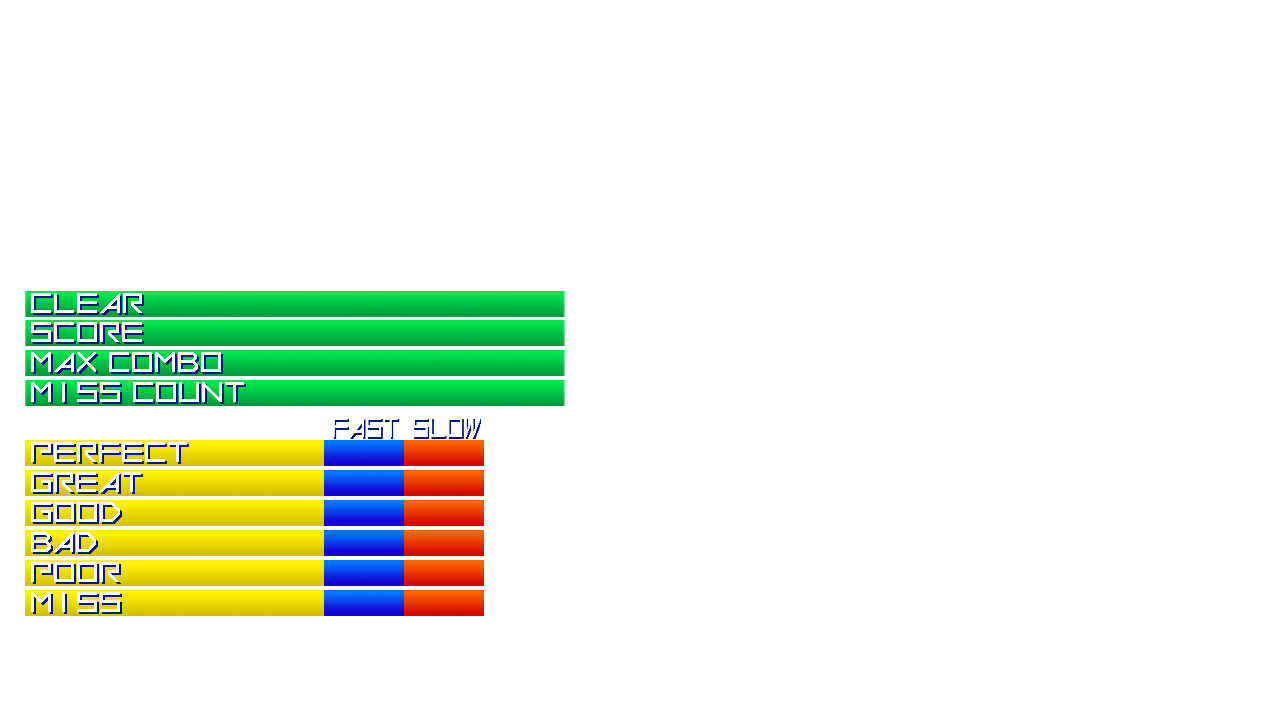
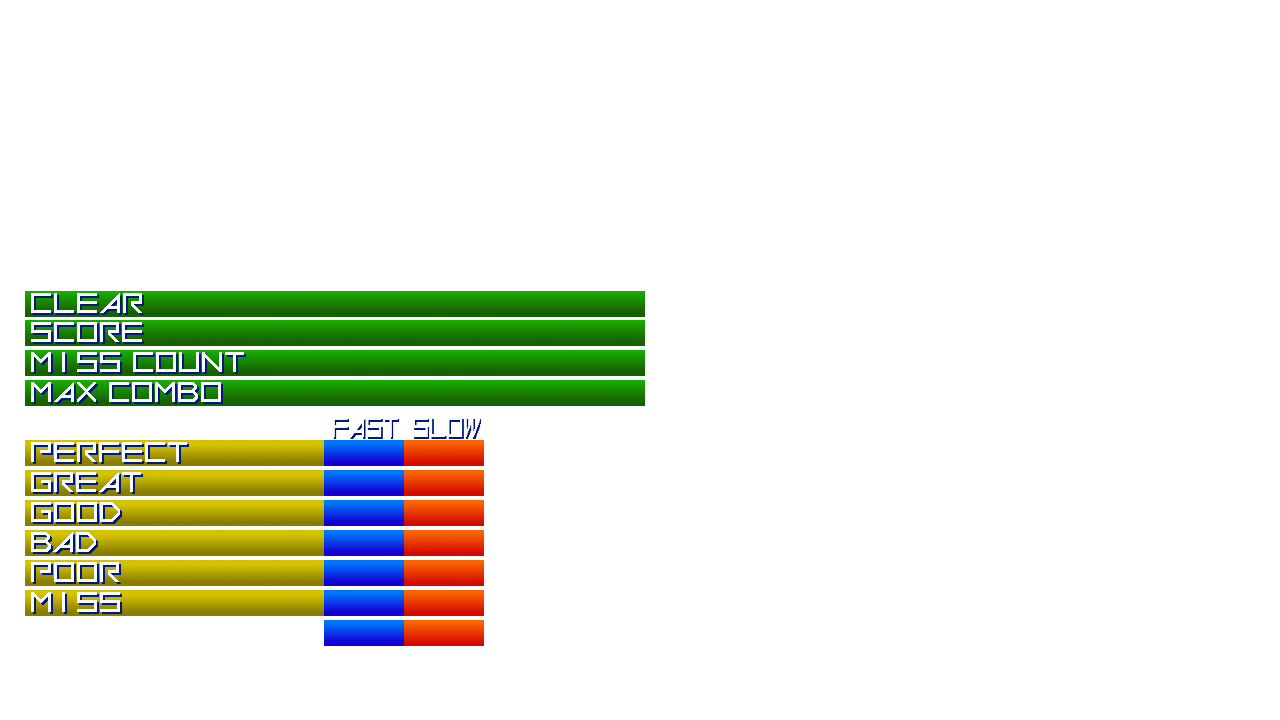
Music Result : implements skin (in progress)

Changed region(s): [[0.0, 0.3972, 0.5312, 0.5806], [0.0, 0.6111, 0.25, 0.8556], [0.25, 0.8556, 0.375, 0.9167]]

diff --git a/src/bms/player/beatoraja/result/MusicResult.java b/src/bms/player/beatoraja/result/MusicResult.java
@@ -233,25 +233,23 @@ public class MusicResult extends ApplicationAdapter {
 				skin.getScore(1).draw(sprite, time, oldexscore);
 				titlefont.setColor(Color.WHITE);
 				titlefont.draw(sprite, " -> ", 360, 395);
+				skin.getScore(score.getExscore() > oldexscore ? 2 : 3).draw(sprite, time, Math.abs(score.getExscore() - oldexscore));
 			}
 			skin.getScore(0).draw(sprite, time, score.getExscore());
-			skin.getScore(score.getExscore() > oldexscore ? 2 : 3).draw(sprite, time, Math.abs(score.getExscore() - oldexscore));
 
 			if (oldmisscount < 65535) {
 				skin.getMisscount(1).draw(sprite, time, oldmisscount);
 				titlefont.draw(sprite, " -> ", 360, 365);
-				skin.getMisscount(0).draw(sprite, time, score.getMinbp());
 				skin.getMisscount(score.getMinbp() > oldmisscount ? 3 : 2).draw(sprite, time, Math.abs(score.getMinbp() - oldmisscount));
-			} else {
-				skin.getMisscount(0).draw(sprite, time, score.getMinbp());
 			}
+			skin.getMisscount(0).draw(sprite, time, score.getMinbp());
 			
 			if(oldcombo > 0) {
-				skin.getMaxcombo(0).draw(sprite, time, score.getCombo());
 				skin.getMaxcombo(1).draw(sprite, time, oldcombo);
-			} else {
-				skin.getMaxcombo(0).draw(sprite, time, score.getCombo());				
+				titlefont.draw(sprite, " -> ", 360, 335);
+				skin.getMaxcombo(score.getCombo() > oldcombo ? 2 : 3).draw(sprite, time, Math.abs(score.getCombo() - oldcombo));
 			}
+			skin.getMaxcombo(0).draw(sprite, time, score.getCombo());				
 
 			titlefont.draw(sprite, "FAST / SLOW  :  ", 100, 100);
 
@@ -292,7 +290,7 @@ public class MusicResult extends ApplicationAdapter {
 		titlefont.draw(sprite, resource.getBMSModel().getFullTitle(), w / 2 - layout.width / 2, 23);
 		sprite.end();
 
-		detail.render(sprite, titlefont, shape, System.currentTimeMillis() - time, skin.getJudgeRegion());
+		detail.render(sprite, titlefont, shape, time, skin.getJudgeRegion());
 
 		boolean[] keystate = main.getInputProcessor().getKeystate();
 		long[] keytime = main.getInputProcessor().getTime();

diff --git a/src/bms/player/beatoraja/result/MusicResultSkin.java b/src/bms/player/beatoraja/result/MusicResultSkin.java
@@ -56,7 +56,7 @@ public class MusicResultSkin extends Skin{
 		}
 		
 		for(int i = 0;i < 2;i++) {
-			SkinNumber sn = new SkinNumber(ntr[i + 1],0,4,0);
+			SkinNumber sn = new SkinNumber(ntr[0],0,4,0);
 			sn.setDestination(0, 320 + i * 90, 75, 18, 24, 0, 1, 1, 1, 1, 0, 0, 0, 0,
 					0, 0, 0, 0, 0);
 			setJudgeCount(i == 0, sn);			
@@ -105,6 +105,14 @@ public class MusicResultSkin extends Skin{
 		ncombo.setDestination(0, 410, 315, 24, 24, 0, 1, 1, 1, 1, 0, 0, 0, 0,
 				0, 0, 0, 0, 0);
 		setMaxcombo(0, ncombo);
+		SkinNumber dcombo = new SkinNumber(ntr[1],0,5,0);
+		dcombo.setDestination(0, 550, 315, 12, 24, 0, 1, 1, 1, 1, 0, 0, 0, 0,
+				0, 0, 0, 0, 0);
+		setMaxcombo(2, dcombo);
+		dcombo = new SkinNumber(ntr[2],0,5,0);
+		dcombo.setDestination(0, 550, 315, 12, 24, 0, 1, 1, 1, 1, 0, 0, 0, 0,
+				0, 0, 0, 0, 0);
+		setMaxcombo(3, dcombo);
 		
 		totalnotes = new SkinNumber(ntr[0],0,5,0);
 		totalnotes.setDestination(0, 360, 486, 12, 12, 0, 1, 1, 1, 1, 0, 0, 0, 0,
